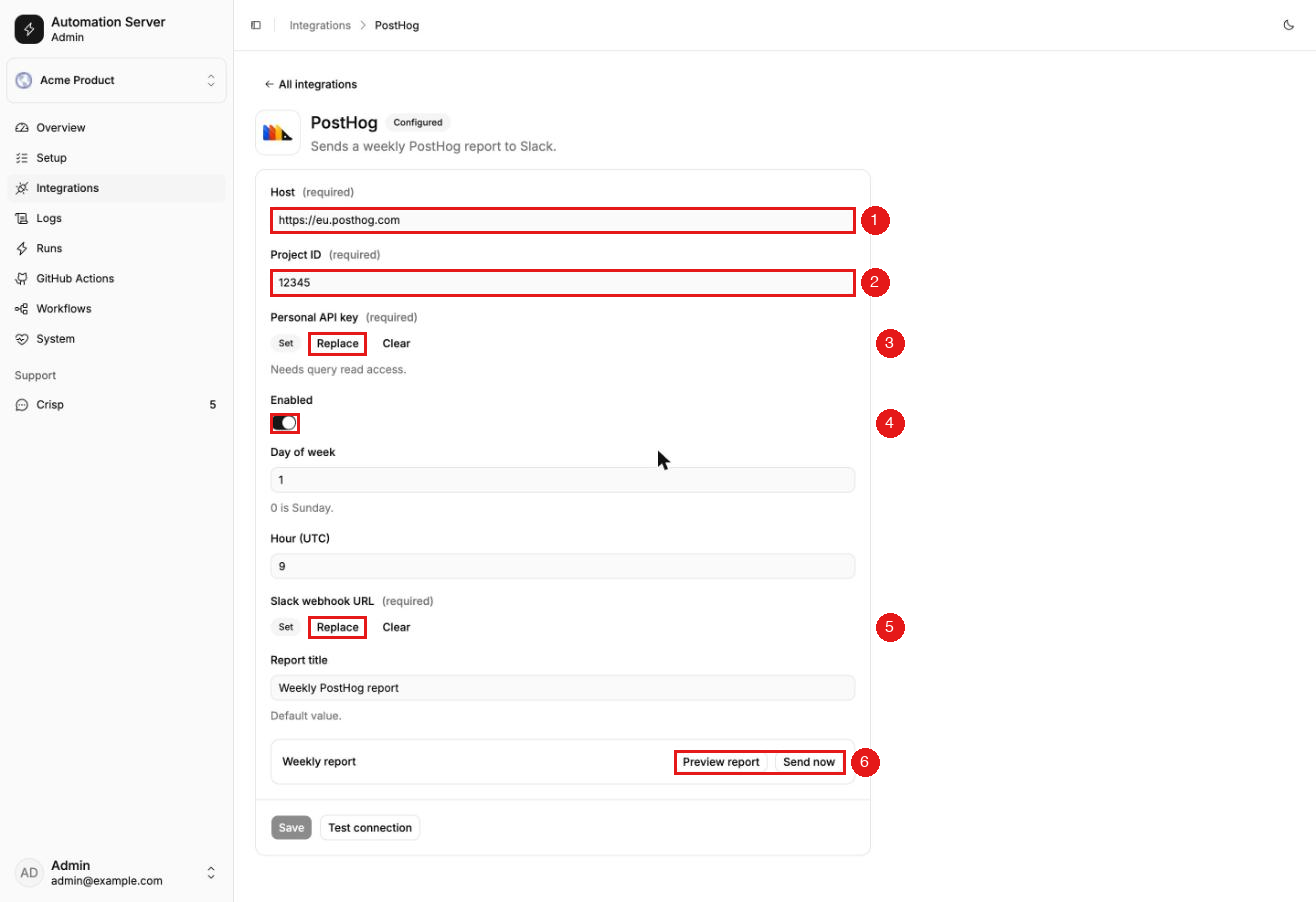
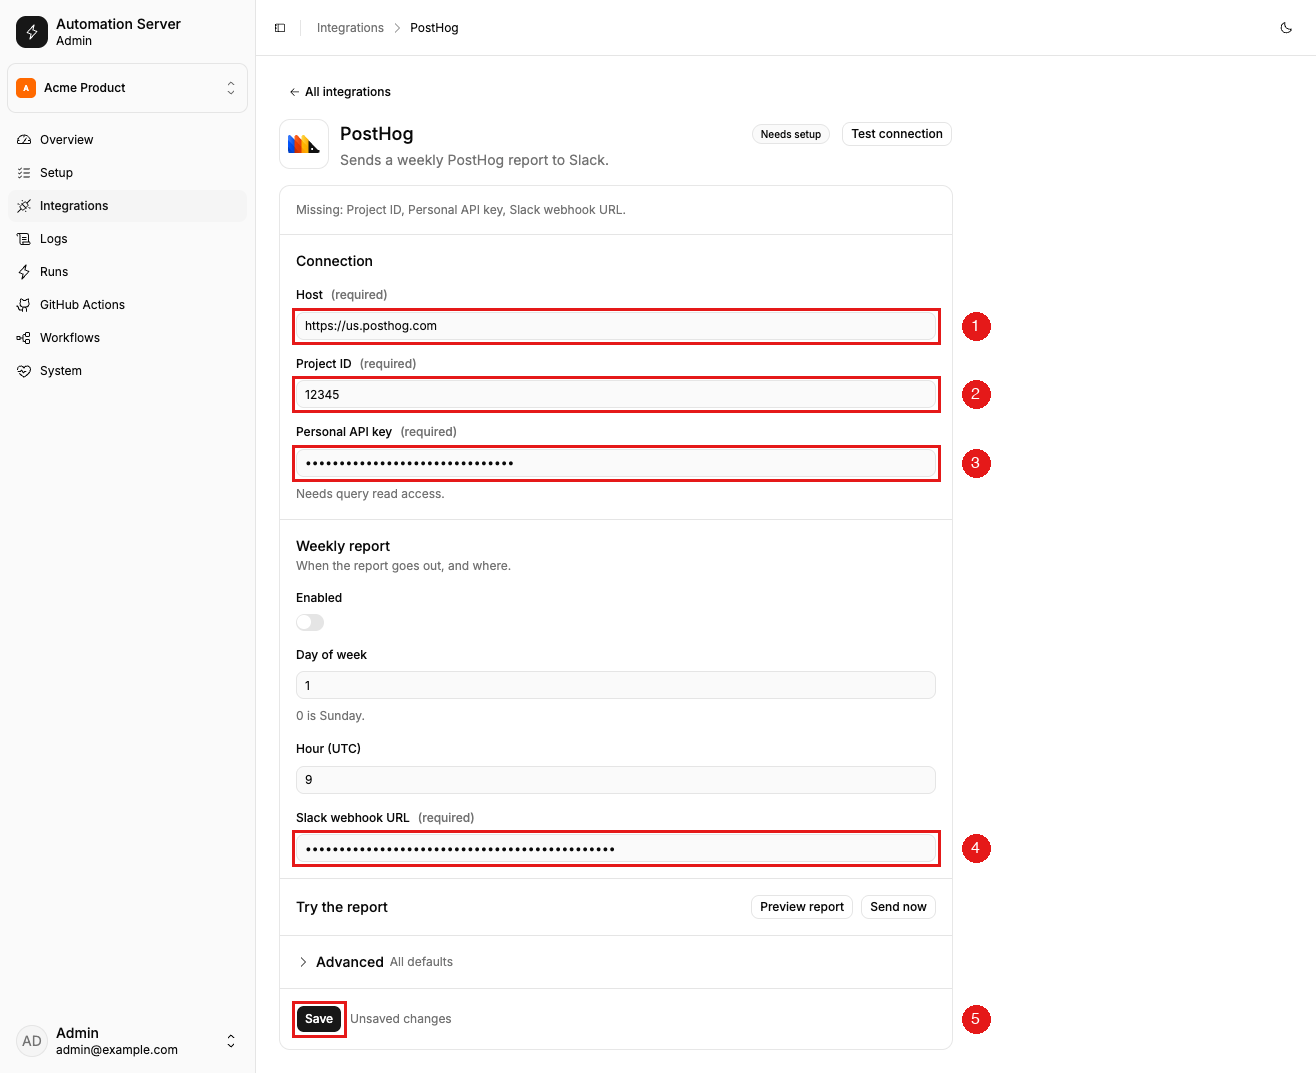
docs: retake admin screenshots for the section layout of integrations

diff --git a/docs/setup/README.md b/docs/setup/README.md
@@ -51,9 +51,11 @@ The **Setup** page walks through the order below inside the admin itself, and ti
 
 Open **Integrations**. Each added service is a row. Rows that need attention (setup not finished, a failed check, a token that expired or expires within 14 days) are listed first and say why. Click a row to open its page. **Add integration** adds another service.
 
-![The Integrations page with a card for each of GitHub, Sentry, Linear, PostHog, OpenRouter and Crisp](img/admin-02-integrations.png)
+![The Integrations page: PostHog under Needs attention because its Slack webhook URL is missing, then GitHub, Sentry, Linear, OpenRouter and Crisp under Connected, and the Add integration button](img/admin-02-integrations.png)
 
 An integration that is not set up yet opens as one form with a single **Save**. Once it is configured, its page is a summary of the saved settings in sections such as **Connection**. Click **Edit** on a section to change its fields, then **Save** or **Cancel**. Only that section is saved. Rarely changed fields sit in the last section, **Advanced**, which says **All defaults** or names the fields you changed.
+
+![The Crisp page once configured: 1 Edit on the Triage section, 2 the Advanced line reading All defaults, 3 Test connection](img/admin-16-integration-summary.png)
 
 The fields work the same way everywhere:
 
@@ -62,7 +64,7 @@ The fields work the same way everywhere:
 - **Plain fields** (repository, label, model). Type the value and click **Save**. Saving applies at once, no restart.
 - **Test connection** (GitHub, Linear, PostHog, OpenRouter, Crisp, Slack), next to the title. Checks the saved values against the real service. Run it after every save.
 
-Each guide below shows the form with the fields numbered in the order you fill them. The screenshots predate the section layout, so the fields may sit under an **Edit** button rather than in one long form.
+Each guide below shows the form before its first save, with the fields numbered in the order you fill them.
 
 ## What each automation does
 

diff --git a/docs/setup/crisp.md b/docs/setup/crisp.md
@@ -117,17 +117,18 @@ The server ignores deliveries for any other website.
 
 The webhook is served once the four required fields are set. The triage runs once OpenRouter is configured too.
 
-![The Crisp form in the admin: 1 webhook URL, 2 Website ID, 3 token identifier, 4 token key, 5 signing secret, 6 trigger segment, 7 mode](img/admin-09-crisp-form.png)
+![The Crisp form before its first save: 1 webhook URL, 2 Website ID, 3 token identifier, 4 token key, 5 signing secret, 6 mode, 7 trigger segment, 8 Save](img/admin-09-crisp-form.png)
 
 1. **Webhook URL.** Paste it into Crisp, step 5.
 2. **Website ID.** From step 6.
 3. **Plugin token identifier.** From the production token in step 3.
-4. **Plugin token key.** Click **Replace** and paste the token key.
-5. **Web Hooks signing secret.** Click **Replace** and paste the secret from step 5.
-6. **Trigger segment.** The tag that starts a triage. Default `triage`.
-7. **Mode.** `shadow`, `issue`, `fix` or `dry-run`. Start with `shadow`.
+4. **Plugin token key.** Paste the token key.
+5. **Web Hooks signing secret.** Paste the secret from step 5.
+6. **Mode.** `shadow`, `issue`, `fix` or `dry-run`. Start with `shadow`.
+7. **Trigger segment.** The tag that starts a triage. Default `triage`.
+8. **Save.**
 
-The fields below Mode (minimum confidence, product areas, autofix areas, workflow file) are optional and explained in [the integration page](../integrations/crisp.md#configuration).
+The other fields (triage resolved conversations, product areas, autofix areas, and minimum confidence and workflow file under **Advanced**) are optional and explained in [the integration page](../integrations/crisp.md#configuration).
 
 ## 8. Create the trigger segment
 

diff --git a/docs/setup/sentry.md b/docs/setup/sentry.md
@@ -44,13 +44,14 @@ Every value can be saved from the admin Integrations page without a restart, or 
 
 After saving, Sentry opens the integration page. Under **Credentials** it shows the **Client Secret**. Click **Copy** next to it, then paste it into Admin, Integrations, Sentry, **Client secret** (`SENTRY_CLIENT_SECRET`). The server uses it to verify the signature of every webhook. Treat it like a password.
 
-In the admin the Sentry form looks like this.
+Before its first save the Sentry page in the admin is one form.
 
-![The Sentry form in the admin: 1 webhook URL to paste into Sentry, 2 Replace the client secret, 3 optional auth token](img/admin-07-sentry-form.png)
+![The Sentry form before its first save: 1 webhook URL to paste into Sentry, 2 Client secret, 3 optional Auth token, 4 Save](img/admin-07-sentry-form.png)
 
 1. **Webhook URL.** Copy it with the button on the right. This is what you paste into Sentry in step 2.
-2. **Client secret.** Click **Replace**, paste the secret you just copied from Sentry, save.
+2. **Client secret.** Paste the secret you just copied from Sentry. Once Sentry is saved, change it with **Edit** on **Connection**, then **Replace**.
 3. **Auth token.** Optional, see step 4.
+4. **Save.**
 
 The Sentry page also has **Levels**, **Environments** and **Minimum event count** below. They decide which alerts become GitHub issues.
 

diff --git a/docs/setup/github.md b/docs/setup/github.md
@@ -58,12 +58,13 @@ The Linear integration has its own target repository field, `linear.targetRepo`.
 
 Values saved in the admin win over environment variables and apply without a restart. The variable names are listed in [`apps/server/.env.example`](../../apps/server/.env.example).
 
-![The GitHub integration form: 1 Replace the token, 2 Issues repository, 3 Actions repositories, 4 Test connection](img/admin-05-github-form.png)
+![The GitHub form before its first save: 1 Token, 2 Issues repository, 3 Actions repositories, 4 Save, 5 Test connection](img/admin-05-github-form.png)
 
-1. **Token.** A saved secret shows **Set** and is never displayed again. Click **Replace**, paste the new token and save to change it. **Clear** removes it.
+1. **Token.** Paste the token. Once saved it shows **Set** and is never displayed again. To change it later, click **Edit** on **Connection**, then **Replace**.
 2. **Issues repository.** Where Sentry alerts and Crisp triage become issues.
 3. **Actions repositories.** One `owner/name` per line. The GitHub Actions page of the admin shows runs from these.
-4. **Test connection.** Run it after **Save**.
+4. **Save.** The page switches to a summary of the saved settings.
+5. **Test connection.** Run it after **Save**.
 
 ## 3. Allow Actions to create pull requests
 

diff --git a/docs/setup/openrouter.md b/docs/setup/openrouter.md
@@ -120,9 +120,10 @@ These settings apply to the whole organization. A stricter rule for one key goes
 | Run fails with `429` | Rate limit of the model or provider. Retry later or choose another model. |
 | "returned no valid JSON" | The model ignores structured outputs. Choose another model. |
 
-![The OpenRouter form in the admin: 1 Replace the API key, 2 Triage model, 3 Escalation model, 4 Test connection](img/admin-08-openrouter-form.png)
+![The OpenRouter form before its first save: 1 API key, 2 Triage model, 3 Escalation model, 4 Save, 5 Test connection](img/admin-08-openrouter-form.png)
 
-1. **API key.** Click **Replace**, paste the `sk-or-...` key and save. It is stored encrypted and never shown again.
+1. **API key.** Paste the `sk-or-...` key. It is stored encrypted and never shown again. To change it later, click **Edit** on **Connection**, then **Replace**.
 2. **Triage model.** The fast first pass. Leave the default unless you have a reason.
 3. **Escalation model.** Asked again for bugs and low-confidence verdicts.
-4. **Test connection.** Sends a tiny request to check that the key works.
+4. **Save.**
+5. **Test connection.** Sends a tiny request to check that the key works.

diff --git a/README.md b/README.md
@@ -17,7 +17,7 @@ The admin is the one screen you use. It shows what the server did, holds the set
 
 ![The admin Overview: the sidebar with every page, counters for the last 24 hours, a chart of runs and the latest failures](docs/setup/img/admin-01-overview.png)
 
-![The admin Integrations page with a card for GitHub, Sentry, Linear, PostHog, OpenRouter and Crisp](docs/setup/img/admin-02-integrations.png)
+![The admin Integrations page: one row per integration, grouped into Needs attention and Connected](docs/setup/img/admin-02-integrations.png)
 
 ### Automations and workflows in one table
 

diff --git a/docs/setup/posthog.md b/docs/setup/posthog.md
@@ -82,7 +82,7 @@ Treat the URL as a secret. Anyone who has it can post to the channel. The report
 1. Open the admin and go to **Integrations**. Open **PostHog**.
 2. Fill in the fields.
 
-![The PostHog form in the admin: 1 host, 2 project ID, 3 Replace the API key, 4 Enabled switch, 5 Replace the Slack webhook URL, 6 Preview report and Send now](img/admin-10-posthog-form.png)
+![The PostHog form before its first save: 1 Host, 2 Project ID, 3 Personal API key, 4 Slack webhook URL, 5 Save](img/admin-10-posthog-form.png)
 
 | Field | Value |
 | --- | --- |

diff --git a/docs/setup/linear.md b/docs/setup/linear.md
@@ -45,7 +45,7 @@ To copy the full URL, open the admin Integrations page and open Linear. The **Co
 
 The Linear form in the admin, with every field you will touch in the next steps.
 
-![The Linear form in the admin: 1 webhook URL, 2 Replace the webhook secret, 3 trigger label, 4 target repository, 5 Test connection](img/admin-06-linear-form.png)
+![The Linear form before its first save: 1 webhook URL, 2 Webhook secret, 3 Trigger label, 4 Target repository, 5 Save, 6 Test connection](img/admin-06-linear-form.png)
 
 ## 3. Create the webhook in Linear
 
